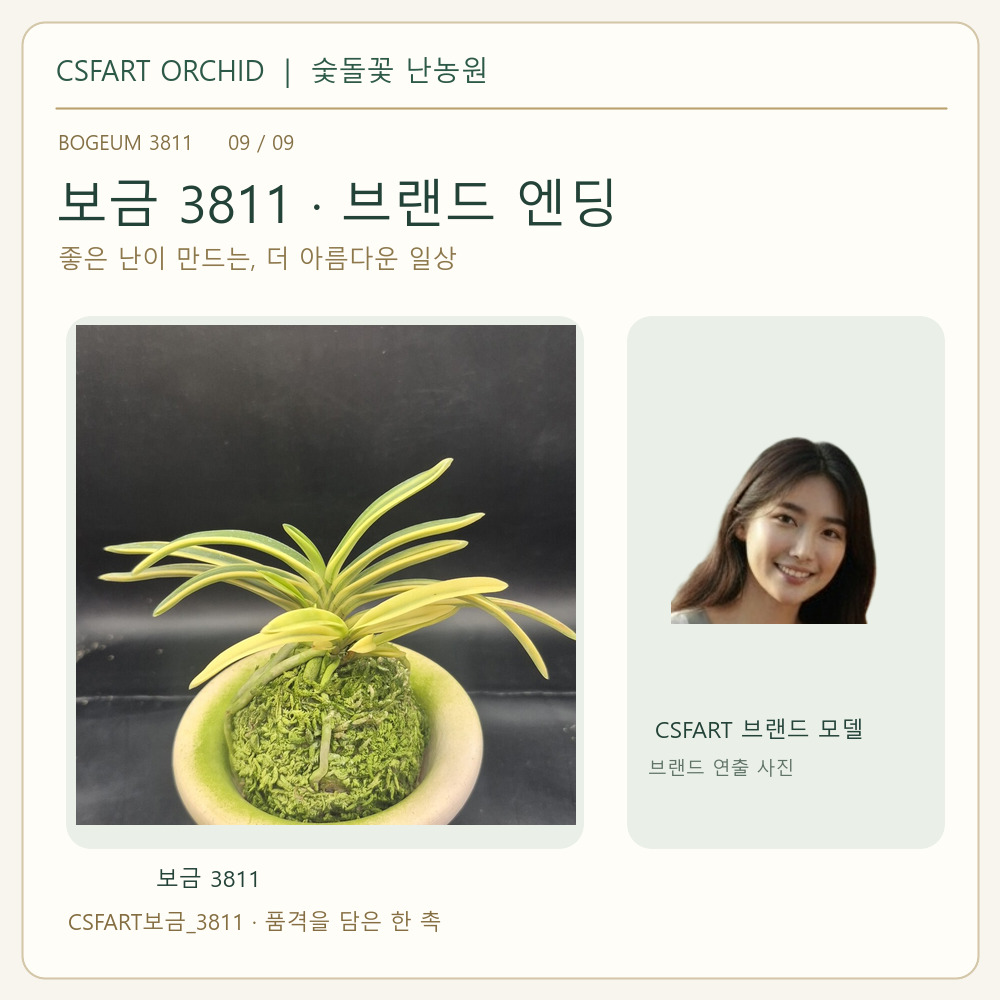
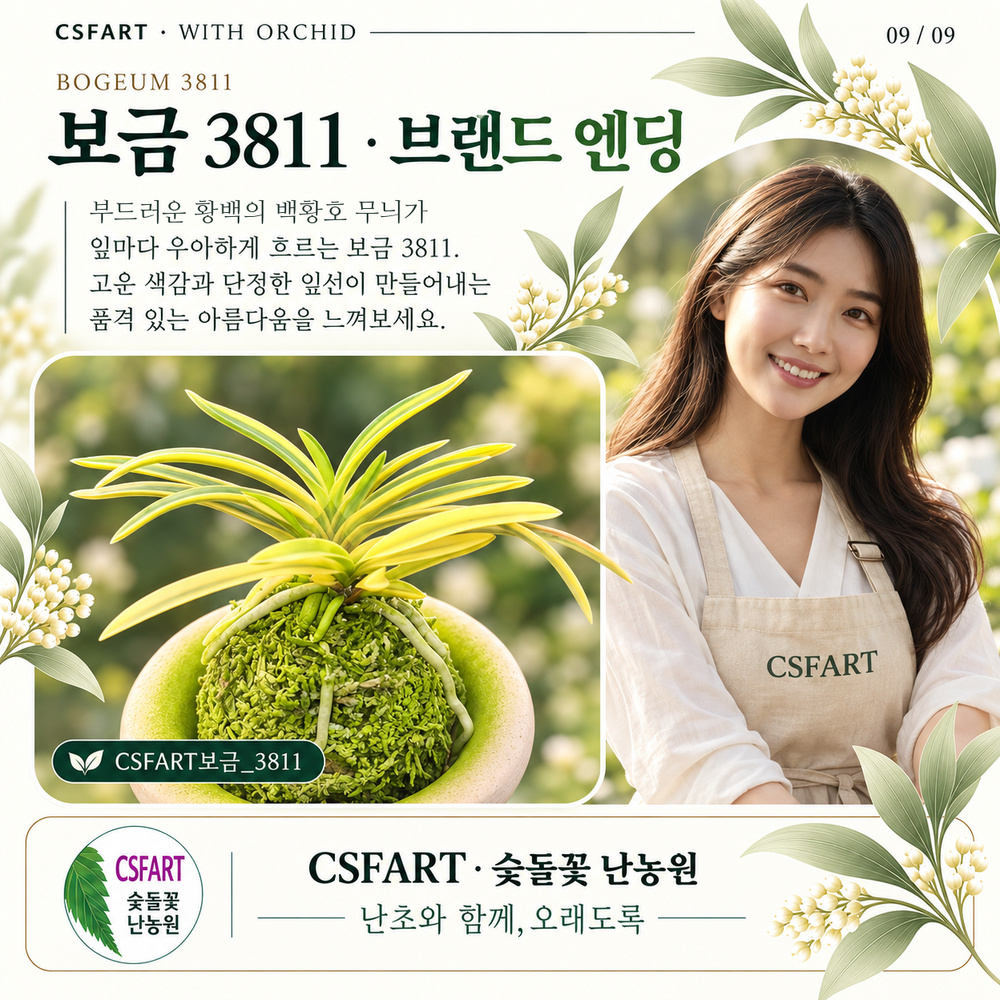
Update Bogeum 3811 final brand ending and refresh image cache

diff --git a/product/bogeum-3811.html b/product/bogeum-3811.html
@@ -38,7 +38,7 @@
 <figure class="interleave"><div class="photo-label">보금 3811 · 10번째 각도</div><a href="../images/bogeum3811/actual_10.jpg" target="_blank" rel="noopener"><img src="../images/bogeum3811/actual_10.jpg" loading="lazy" alt="보금 3811 사진 10"></a></figure>
 <figure><a href="../images/bogeum3811/guide_08.jpg?v=copyfix-20261017" target="_blank" rel="noopener"><img src="../images/bogeum3811/guide_08.jpg?v=copyfix-20261017" loading="lazy" alt="보금 3811 풍란 관리의 기본"></a><figcaption>08/09 · 풍란 관리의 기본</figcaption></figure>
 <figure class="interleave"><div class="photo-label">보금 3811 · 11번째 각도</div><a href="../images/bogeum3811/actual_11.jpg" target="_blank" rel="noopener"><img src="../images/bogeum3811/actual_11.jpg" loading="lazy" alt="보금 3811 사진 11"></a></figure>
-<figure><a href="../images/bogeum3811/guide_09.jpg?v=copyfix-20261017" target="_blank" rel="noopener"><img src="../images/bogeum3811/guide_09.jpg?v=copyfix-20261017" loading="lazy" alt="보금 3811 정본 모델이 등장하는 CSFART 브랜드 엔딩"></a><figcaption>09/09 · 정본 모델이 등장하는 CSFART 브랜드 엔딩</figcaption></figure>
+<figure><a href="../images/bogeum3811/guide_09.jpg?v=brand09-87f18e66" target="_blank" rel="noopener"><img src="../images/bogeum3811/guide_09.jpg?v=brand09-87f18e66" loading="lazy" alt="보금 3811 정본 모델이 등장하는 CSFART 브랜드 엔딩"></a><figcaption>09/09 · 정본 모델이 등장하는 CSFART 브랜드 엔딩</figcaption></figure>
 </section>
 <section class="buy"><h2>보금 3811 · 80,000원</h2>
 <p>구매 및 실시간 판매 조건은 CSFART 네이버 스마트스토어에서 확인하실 수 있습니다.</p>
